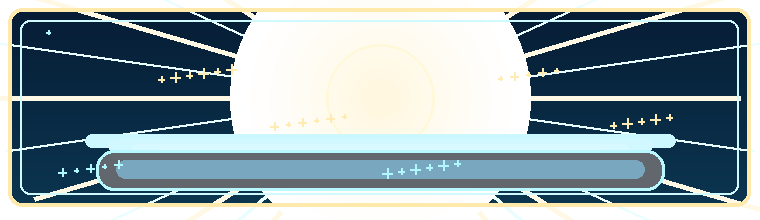
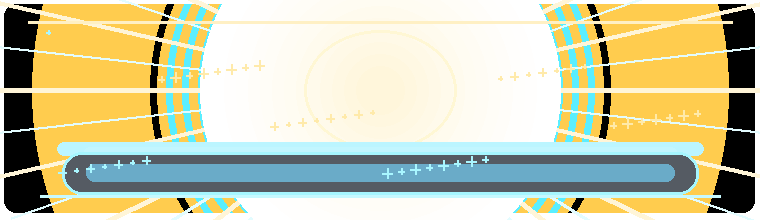
食経験値画面の中央演出を強める

diff --git a/docs/qa/evidence/cooking/2026-07-05_exp_gain_report.html b/docs/qa/evidence/cooking/2026-07-05_exp_gain_report.html
@@ -1,0 +1,131 @@
+<!doctype html>
+<html lang="ja">
+<head>
+  <meta charset="utf-8">
+  <title>Tsuri Cooking Reference QA</title>
+  <style>
+    body {
+      margin: 0;
+      background: #10151d;
+      color: #f4ead1;
+      font-family: -apple-system, BlinkMacSystemFont, "Hiragino Sans", sans-serif;
+    }
+    header {
+      position: sticky;
+      top: 0;
+      z-index: 1;
+      padding: 18px 24px;
+      background: #13243a;
+      border-bottom: 2px solid #c79545;
+    }
+    h1, h2, p {
+      margin: 0;
+    }
+    .status {
+      margin-top: 8px;
+      color: #ffd980;
+    }
+    main {
+      padding: 22px;
+    }
+    section {
+      margin-bottom: 34px;
+      padding: 18px;
+      background: #172130;
+      border: 1px solid #5f4424;
+    }
+    h2 {
+      margin-bottom: 8px;
+      color: #ffd980;
+    }
+    .focus {
+      margin-bottom: 14px;
+      color: #d8c8a8;
+    }
+    .pair {
+      display: grid;
+      grid-template-columns: 1fr 1fr;
+      gap: 16px;
+      align-items: start;
+    }
+    figure {
+      margin: 0;
+    }
+    img {
+      display: block;
+      width: 100%;
+      background: #0b0e14;
+      border: 1px solid #7a5a2a;
+    }
+    figcaption, .missing {
+      margin-top: 8px;
+      color: #d8c8a8;
+      font-size: 13px;
+      line-height: 1.45;
+    }
+    code {
+      color: #9fe8ff;
+    }
+    .missing {
+      min-height: 260px;
+      padding: 24px;
+      background: #261922;
+      border: 1px dashed #c76b6b;
+    }
+  </style>
+</head>
+<body>
+  <header>
+    <h1>Tsuri Cooking Reference QA</h1>
+    <p class="status">All captures found. Review each pair against the focus notes.</p>
+  </header>
+  <main>
+    
+            <section>
+              <h2>COOK_SELECT</h2>
+              <p class="focus">Focus: 3カラム構成、魚行、3x2料理カード、右詳細、下部ステータス帯</p>
+              <div class="pair">
+                <figure><img src="file:///Users/ryukouokumura/Desktop/tsuri_quest_umi_mvp/reference/cooking_flow/01_cook_select_concept.png" alt="Reference"><figcaption>Reference<br><code>/Users/ryukouokumura/Desktop/tsuri_quest_umi_mvp/reference/cooking_flow/01_cook_select_concept.png</code></figcaption></figure>
+                <figure><img src="file:///tmp/tsuri_cooking_select.png" alt="Current Capture"><figcaption>Current Capture<br><code>/tmp/tsuri_cooking_select.png</code></figcaption></figure>
+              </div>
+            </section>
+            
+            <section>
+              <h2>MEAL_RESULT</h2>
+              <p class="focus">Focus: 食事シーン、食べたバナー、料理カード、4報酬カード、下部ステータス帯</p>
+              <div class="pair">
+                <figure><img src="file:///Users/ryukouokumura/Desktop/tsuri_quest_umi_mvp/reference/cooking_flow/02_meal_result_concept.png" alt="Reference"><figcaption>Reference<br><code>/Users/ryukouokumura/Desktop/tsuri_quest_umi_mvp/reference/cooking_flow/02_meal_result_concept.png</code></figcaption></figure>
+                <figure><img src="file:///tmp/tsuri_cooking_result.png" alt="Current Capture"><figcaption>Current Capture<br><code>/tmp/tsuri_cooking_result.png</code></figcaption></figure>
+              </div>
+            </section>
+            
+            <section>
+              <h2>EXP_GAIN</h2>
+              <p class="focus">Focus: +EXP、EXPゲージ、放射バースト、左料理カード、右効果カード</p>
+              <div class="pair">
+                <figure><img src="file:///Users/ryukouokumura/Desktop/tsuri_quest_umi_mvp/reference/cooking_flow/03_exp_gain_concept.png" alt="Reference"><figcaption>Reference<br><code>/Users/ryukouokumura/Desktop/tsuri_quest_umi_mvp/reference/cooking_flow/03_exp_gain_concept.png</code></figcaption></figure>
+                <figure><img src="file:///tmp/tsuri_cooking_exp.png" alt="Current Capture"><figcaption>Current Capture<br><code>/tmp/tsuri_cooking_exp.png</code></figcaption></figure>
+              </div>
+            </section>
+            
+            <section>
+              <h2>LEVEL_UP_OVERLAY</h2>
+              <p class="focus">Focus: 中央LEVEL UP、Lv遷移、能力上昇、赤リボン、ぬし/釣り場解放</p>
+              <div class="pair">
+                <figure><img src="file:///Users/ryukouokumura/Desktop/tsuri_quest_umi_mvp/reference/cooking_flow/04_level_up_overlay_concept.png" alt="Reference"><figcaption>Reference<br><code>/Users/ryukouokumura/Desktop/tsuri_quest_umi_mvp/reference/cooking_flow/04_level_up_overlay_concept.png</code></figcaption></figure>
+                <figure><img src="file:///tmp/tsuri_cooking_levelup.png" alt="Current Capture"><figcaption>Current Capture<br><code>/tmp/tsuri_cooking_levelup.png</code></figcaption></figure>
+              </div>
+            </section>
+            
+            <section>
+              <h2>STATUS_SUMMARY</h2>
+              <p class="focus">Focus: 5カード、ヘッダーEXP、効果中料理、下部メッセージ、港へ戻る導線</p>
+              <div class="pair">
+                <figure><img src="file:///Users/ryukouokumura/Desktop/tsuri_quest_umi_mvp/reference/cooking_flow/05_status_summary_concept.png" alt="Reference"><figcaption>Reference<br><code>/Users/ryukouokumura/Desktop/tsuri_quest_umi_mvp/reference/cooking_flow/05_status_summary_concept.png</code></figcaption></figure>
+                <figure><img src="file:///tmp/tsuri_cooking_status.png" alt="Current Capture"><figcaption>Current Capture<br><code>/tmp/tsuri_cooking_status.png</code></figcaption></figure>
+              </div>
+            </section>
+            
+  </main>
+</body>
+</html>

diff --git a/tools/generate_cooking_showcase_assets.py b/tools/generate_cooking_showcase_assets.py
@@ -1575,58 +1575,58 @@ def exp_burst_frame() -> None:
 
     bg = Image.new("RGBA", (w, h), (0, 0, 0, 0))
     bd = ImageDraw.Draw(bg, "RGBA")
-    for y in range(h):
-        t = y / max(1, h - 1)
-        top = (7, 28, 52)
-        bot = (12, 55, 82)
-        col = tuple(int(top[i] * (1 - t) + bot[i] * t) for i in range(3))
-        bd.line((0, y, w, y), fill=(*col, 245))
+    center = (w // 2, h // 2 - 20)
+    for r in range(380, 24, -16):
+        a = int(96 * (1 - r / 380) ** 1.8)
+        bd.ellipse((center[0] - r, center[1] - r, center[0] + r, center[1] + r), fill=(255, 204, 78, a))
+    for r in range(230, 18, -16):
+        a = int(64 * (1 - r / 230) ** 1.45)
+        bd.ellipse((center[0] - r, center[1] - r, center[0] + r, center[1] + r), outline=(90, 238, 255, a), width=7)
     mask = Image.new("L", (w, h), 0)
     md = ImageDraw.Draw(mask)
-    md.rounded_rectangle((8, 8, w - 10, h - 14), radius=14, fill=255)
+    md.rounded_rectangle((4, 4, w - 6, h - 8), radius=12, fill=255)
     img.alpha_composite(bg)
     img.putalpha(mask)
     draw = ImageDraw.Draw(img, "RGBA")
 
-    center = (w // 2, h // 2 - 12)
-    for i in range(44):
-        angle = math.tau * i / 44
+    for i in range(56):
+        angle = math.tau * i / 56
         inner = 20 + (i % 3) * 5
-        outer = 360 + (i % 4) * 18
-        color = (255, 224, 129, 54) if i % 2 == 0 else (107, 241, 255, 36)
+        outer = 390 + (i % 5) * 18
+        color = (255, 224, 129, 78) if i % 2 == 0 else (107, 241, 255, 48)
         x0 = center[0] + math.cos(angle) * inner
         y0 = center[1] + math.sin(angle) * inner
         x1 = center[0] + math.cos(angle) * outer
         y1 = center[1] + math.sin(angle) * outer
         draw.line((x0, y0, x1, y1), fill=color, width=5 if i % 2 == 0 else 3)
 
-    for r in range(150, 12, -10):
-        a = int(70 * (1 - r / 150) ** 1.6)
+    for r in range(180, 18, -12):
+        a = int(82 * (1 - r / 180) ** 1.65)
         draw.ellipse((center[0] - r, center[1] - r, center[0] + r, center[1] + r), fill=(255, 222, 112, a))
-    draw.ellipse((center[0] - 54, center[1] - 54, center[0] + 54, center[1] + 54), outline=(255, 240, 172, 110), width=3)
+    draw.ellipse((center[0] - 76, center[1] - 60, center[0] + 76, center[1] + 60), outline=(255, 240, 172, 132), width=3)
 
     # Gauge pedestal and cyan flash trails.
     for i in range(6):
-        width = w - 170 - i * 46
-        y = 134 + i * 5
+        width = w - 114 - i * 52
+        y = 142 + i * 5
         draw.rounded_rectangle(
             ((w - width) // 2, y, (w + width) // 2, y + 13),
             radius=7,
-            fill=(68, 229, 255, max(18, 70 - i * 9)),
+            fill=(68, 229, 255, max(22, 92 - i * 10)),
         )
-    draw.rounded_rectangle((96, 150, w - 96, 190), radius=18, fill=(5, 14, 25, 160), outline=(107, 241, 255, 120), width=3)
-    draw.rounded_rectangle((116, 160, w - 116, 178), radius=9, fill=(30, 107, 148, 150))
+    draw.rounded_rectangle((62, 152, w - 62, 194), radius=20, fill=(3, 12, 24, 172), outline=(107, 241, 255, 152), width=3)
+    draw.rounded_rectangle((86, 164, w - 86, 181), radius=9, fill=(30, 128, 172, 168))
 
-    for i in range(34):
+    for i in range(46):
         x = 48 + (i * 113) % (w - 96)
         y = 32 + (i * 47) % (h - 78)
         r = 2 + i % 4
-        color = (255, 224, 129, 150) if i % 3 else (107, 241, 255, 135)
+        color = (255, 224, 129, 172) if i % 3 else (107, 241, 255, 148)
         draw.line((x - r, y, x + r, y), fill=color, width=2)
         draw.line((x, y - r, x, y + r), fill=color, width=2)
 
-    draw.rounded_rectangle((8, 8, w - 10, h - 14), radius=14, outline=(255, 224, 129, 170), width=4)
-    draw.rounded_rectangle((20, 20, w - 22, h - 26), radius=10, outline=(107, 241, 255, 82), width=2)
+    draw.line((28, 22, w - 28, 22), fill=(255, 224, 129, 118), width=3)
+    draw.line((40, h - 24, w - 40, h - 24), fill=(107, 241, 255, 96), width=3)
     save(img, "exp_burst_frame.png")
 
 

diff --git a/docs/qa/cooking_qa.md b/docs/qa/cooking_qa.md
@@ -1,6 +1,6 @@
 # 調理場 QA判断ログ
 
-最終更新: 2026-07-05 / 状態: 調理場cooking_screen R1完了 / COOK_SELECT仕上げ点検完了 / MEAL_RESULT reference-uplift完了 / 次はEXP_GAIN
+最終更新: 2026-07-05 / 状態: 調理場cooking_screen R1完了 / COOK_SELECT仕上げ点検完了 / MEAL_RESULT / EXP_GAIN reference-uplift完了 / 次はLEVEL_UP_OVERLAY
 参照画像: reference/cooking_flow/01_cook_select_concept.png, reference/cooking_flow/02_meal_result_concept.png, reference/cooking_flow/03_exp_gain_concept.png, reference/cooking_flow/04_level_up_overlay_concept.png, reference/cooking_flow/05_status_summary_concept.png
 QA更新コマンド: ./tools/cooking_visual_qa.sh
 
@@ -21,6 +21,7 @@ QA更新コマンド: ./tools/cooking_visual_qa.sh
 
 | パラメータ | 回数 | 直近の変更内容 | 状態 |
 |---|---|---|---|
+| EXP_GAIN 中央演出/ステップ行 | 4 | `exp_burst_frame.png` 候補を生成。透明外枠/見出し拡大は可読性が落ちたため不採用、最終的にステップ行はcontent契約上visibleのままalpha 0.18で抑制 | 完了 |
 | MEAL_RESULT 料理カード/外枠構成 | 2 | 料理カード素材候補の広い料理窓に合わせて配分を試し、1回目は料理名が狭くなったため、2回目で画像幅/文字サイズとMEAL_RESULT専用透明外枠を採用 | 完了 |
 | COOK_SELECT 料理カードタイトル帯 | 1 | 最新比較で枠ノッチとタイトル文字の干渉を確認し、runtimeタイトルをアウトラインなし太字・帯内下寄せへ調整 | 完了 |
 | COOK_SELECT 料理カード星ランク表示 | 1 | Label幅中央寄せを試したが実スクショで星文字が弱く、runtimeポリゴン描画 `RecipeStarRank` へ切替 | 完了 |
@@ -31,7 +32,7 @@ QA更新コマンド: ./tools/cooking_visual_qa.sh
 
 ## 5. 現在の残ギャップ
 
-- P2: EXP_GAIN / LEVEL_UP_OVERLAY / STATUS_SUMMARY は参照uplift未実施。ユーザー指定の優先順どおり1状態1スライスで進める。
+- P2: LEVEL_UP_OVERLAY / STATUS_SUMMARY は参照uplift未実施。ユーザー指定の優先順どおり1状態1スライスで進める。
 - R1温存: レアリティ表示の `RarityStyles` 横展開は未実施。調理場 `src/ui/cooking_screen.gd` のR1完了により、残件は台帳に残したまま一旦停止。
 - R1: `src/ui/cooking_screen.gd` は `Color(` 直書きゼロ。COOK_SELECT左魚リスト周辺は `Palette.COOKING_FISH_*`、見出しリボン周辺は `Palette.COOKING_SECTION_RIBBON_*`、料理カード/中央料理グリッド外枠周辺は `Palette.COOKING_RECIPE_*`、下部バー周辺は `Palette.COOKING_PREP_*`、右詳細パネルactive runtime色は `Palette.COOKING_DETAIL_*`、調理ボタン周辺は `Palette.COOKING_ACTION_*`、料理図鑑ボタン周辺は `Palette.COOKING_RECIPE_BOOK_BUTTON_*`、小アイコン/アクションキュー周辺は `Palette.COOKING_SMALL_ICON_*` / `Palette.COOKING_ACTION_CUE_*`、結果サマリーカード周辺は `Palette.COOKING_SUMMARY_CARD_*` / `Palette.COOKING_RESULT_TITLE_OUTLINE`、背景fallback/glazeは `Palette.COOKING_BG_*` へ移行済み。未使用detail helper由来のhexは削除済み。
 - 監査: `tools/cooking_layout_audit.tscn` / `tools/cooking_content_audit.tscn` / `./tools/cooking_visual_qa.sh` はgreen。visual QAは状態間キャプチャ重複のfail guard追加済み。
@@ -41,6 +42,18 @@ QA更新コマンド: ./tools/cooking_visual_qa.sh
 なし。
 
 ## 7. 判断ログ（直近パスのみ）
+
[phone redacted]: `EXP_GAIN reference-uplift` 完了。`reference/cooking_flow/03_exp_gain_concept.png` へ向けて、中央EXP演出を主役に寄せた。
+
+- 選定理由: MEAL_RESULT完了後、ユーザー指定の優先順で次がEXP_GAINだったため。before比較では上部ステップ行と旧EXPフレームが強く、参照の巨大 `+EXP` / 中央ゲージの報酬ビートより進行UI感が勝っていた。
+- 変えたもの: `tools/generate_cooking_showcase_assets.py` の `exp_burst_frame()` から `assets/showcase/cooking/exp_burst_frame.png` 候補を生成し、中央フレームの光量・ゲージ台座・粒子を強化。EXP_GAIN時のステップ行はcontent audit契約上visibleのまま、alpha 0.18で背景側へ退かせた。
+- 変えていないもの: §1 freeze値、調理/EXP/レベルアップ進行ロジック、COOK_SELECT、MEAL_RESULT、LEVEL_UP_OVERLAY、STATUS_SUMMARY、R1残件、日本語PNG焼き込み。
+- 素材候補: `exp_burst_frame.png` 候補を採用。透明外枠化と見出し拡大は `+EXP` / 見出しの可読性が落ちたため不採用。最終候補は、参照ほどの巨大タイトルには届かないが、beforeより中央ゲージの発光と専用EXP状態の読みが強いと判断。
+- 微調整カウンタ: `EXP_GAIN 中央演出/ステップ行` 4回。3回目で表示契約を満たす改善に戻し、4回目の見出し拡大は不採用として戻した。追加の数px調整は行わず、残る巨大タイトル差分は次回以降の構造/素材フェーズへ送る。
+- 証拠画像: `docs/qa/evidence/cooking/2026-07-05_exp_gain_before_after_ref.png`, `docs/qa/evidence/cooking/2026-07-05_exp_gain_focus.png`, `docs/qa/evidence/cooking/2026-07-05_exp_gain_exp.png`, `docs/qa/evidence/cooking/2026-07-05_exp_gain_report.html`
+- 判定: afterでは上部ステップ行が主導線から退き、中央EXPカードの光とゲージ台座が強くなった。参照の巨大 `+60 EXP` ほどの迫力は残課題だが、EXP獲得専用状態へ前進したと第三者に判別できる。cmp一致は判定に使っていない。
+- 検証: `./tools/cooking_visual_qa.sh`、`cooking_layout_audit.tscn`、`cooking_content_audit.tscn`、`cooking_flow_smoke`、`./tools/save_system_verify.sh`、`./tools/validate_project.sh` green。`save_system_verify.sh` のJSON警告と `validate_project.sh` のObjectDB/resource警告はベースライン既知。
+- 固定条件: EXP_GAINのステップ行はcontent audit契約上visibleを維持するが、主役は中央EXP演出とする。次スライスはLEVEL_UP_OVERLAYへ進める。
 
 2026-07-05: `MEAL_RESULT reference-uplift` 完了。`reference/cooking_flow/02_meal_result_concept.png` へ向けて、食事結果がフォームではなくpayoff状態に見えるように調整した。
 

diff --git a/docs/26_refactor_orchestration_plan.md b/docs/26_refactor_orchestration_plan.md
@@ -1,6 +1,6 @@
 # リファクタ作戦台帳
 
-最終更新: 2026-07-05 / 状態: R0/R2/R3/R4/R6/R7/R8 完了。R9（cooking_reward_panel 分割）は第1〜3段完了。R5/R1 は釣り場マップ完了、魚図鑑 Palette 移行 + P2素材評価完了、調理場 `text_overrun_behavior` 既知ギャップ解消済み、調理場COOK_SELECTの `PlayerStatusBar` 展開 + 情報重複解消済み、調理場 layout監査失敗は実P1修正として解消済み、COOK_SELECT 4スライス（料理カード/下部バー/右詳細パネル/背景）reference-uplift完了、COOK_SELECT仕上げ精度点検完了、MEAL_RESULT reference-uplift完了。`src/ui/screen_base.gd` の残hexは `Palette.SCREEN_BG_DEFAULT` へ移行済み。共有 `GaugeBar` の描画色は `Palette.GAUGE_*` へ移行済み。共有テーマ `src/ui/ui_theme.gd` は `Palette.THEME_*` へ移行済みで直書き色ゼロ。共有 `src/ui/ui_textures.gd` のprocedural魚アイコン色は `Palette.UI_FISH_ICON_*` へ移行済みで直書き色ゼロ。釣具店 `src/ui/shop_screen.gd` は `Palette.TACKLE_*` へ移行済みで直書き色ゼロ。魚市場 `src/ui/market_screen.gd` は一覧レアリティ色を `RarityStyles.list_text_color` へ、透明シャドウ色を `Color.TRANSPARENT` へ移行済みで直書き色ゼロ。調理場 `src/ui/cooking_screen.gd` は `Color(` 直書きゼロ。UI側の直接 `Palette.RARITY_*` 参照は `src/ui/rarity_styles.gd` へ集約済み。R1残件は台帳に温存し、次はEXP_GAIN reference-uplift
+最終更新: 2026-07-05 / 状態: R0/R2/R3/R4/R6/R7/R8 完了。R9（cooking_reward_panel 分割）は第1〜3段完了。R5/R1 は釣り場マップ完了、魚図鑑 Palette 移行 + P2素材評価完了、調理場 `text_overrun_behavior` 既知ギャップ解消済み、調理場COOK_SELECTの `PlayerStatusBar` 展開 + 情報重複解消済み、調理場 layout監査失敗は実P1修正として解消済み、COOK_SELECT 4スライス（料理カード/下部バー/右詳細パネル/背景）reference-uplift完了、COOK_SELECT仕上げ精度点検完了、MEAL_RESULT / EXP_GAIN reference-uplift完了。`src/ui/screen_base.gd` の残hexは `Palette.SCREEN_BG_DEFAULT` へ移行済み。共有 `GaugeBar` の描画色は `Palette.GAUGE_*` へ移行済み。共有テーマ `src/ui/ui_theme.gd` は `Palette.THEME_*` へ移行済みで直書き色ゼロ。共有 `src/ui/ui_textures.gd` のprocedural魚アイコン色は `Palette.UI_FISH_ICON_*` へ移行済みで直書き色ゼロ。釣具店 `src/ui/shop_screen.gd` は `Palette.TACKLE_*` へ移行済みで直書き色ゼロ。魚市場 `src/ui/market_screen.gd` は一覧レアリティ色を `RarityStyles.list_text_color` へ、透明シャドウ色を `Color.TRANSPARENT` へ移行済みで直書き色ゼロ。調理場 `src/ui/cooking_screen.gd` は `Color(` 直書きゼロ。UI側の直接 `Palette.RARITY_*` 参照は `src/ui/rarity_styles.gd` へ集約済み。R1残件は台帳に温存し、次はLEVEL_UP_OVERLAY reference-uplift
 
 Fable オーケストレーターが本ファイルを正本としてスライス順・状態・ベースラインを管理する。
 Composer ワーカーは個別 brief のみ受け取り、本ファイルの更新はオーケストレーターが行う。
@@ -32,7 +32,7 @@ MVPを壊さず、今後のUI改善を画面単位で安全に進められる状
 
 1. **完了済み差分の保護**: R9第1〜3段、釣り場マップR5/R1、魚図鑑R5/R1、調理場COOK_SELECT改善は完了済み。以後は純リファクタ、画面uplift、Palette移行を混ぜず、1スライス1関心で扱う。
 2. **検証の信頼性維持**: `tools/cooking_layout_audit.tscn` の既存失敗は実スクショ上のP1文字欠けとして修正済み。以後はvisual QAの状態重複guard、layout/content audit、実スクショ目視をセットで扱う。
-3. **調理フロー残り状態のR5優先**: 調理場R1は `src/ui/cooking_screen.gd` の `Color(` 直書きゼロまで完了したため一旦停止。MEAL_RESULTは完了。体感品質に寄与する EXP_GAIN → LEVEL_UP_OVERLAY → STATUS_SUMMARY のreference-upliftを、1状態1スライスで進める。
+3. **調理フロー残り状態のR5優先**: 調理場R1は `src/ui/cooking_screen.gd` の `Color(` 直書きゼロまで完了したため一旦停止。MEAL_RESULT / EXP_GAINは完了。体感品質に寄与する LEVEL_UP_OVERLAY → STATUS_SUMMARY のreference-upliftを、1状態1スライスで進める。
 4. **残り画面のR5/R1**: P1があれば最優先。P1がなければ、P2が明確で smoke / visual QA / reference / QAログが揃っている画面から進める。R1残件は画面単位で再開するまで温存し、機械的一括置換はしない。
 5. **R1残件の棚卸し**: 画面単位の進行で残ったPalette未移行箇所を監査リストとして管理する。機械的一括ゼロ化はしない。
 6. **任意の構造課題**: BGM二重実装など、MVP健全化の出口に必須でないものは、上記の完了後に別スライス化する。
@@ -100,7 +100,7 @@ done
 | R2 | showcase 素材参照違反の修正 | R0 | Composer×画面 | `audit_showcase_asset_refs.py` green | **done（監査の結果、現状違反ゼロ。作業不要）** |
 | R3 | autoload / core の pure ロジック境界抽出 | R0, Fable 設計 | Composer | 振る舞い不変、該当 smoke green | **done (2026-07-05)** `game_data.gd`（1828行）を `game_catalog_data.gd`（constテーブル15個・約1430行）と `game_data.gd`（ルール定数+エイリアス+ロジック・約430行）に分離。公開APIはconstエイリアスで不変。7テーブルの JSON md5 前後一致で証明 |
 | R4 | UI 共通基盤（ScreenBase 等）の整理 | R3, Fable 設計 | Composer | Fable 承認済み設計どおり、全 smoke green | **done (2026-07-05)** `ScreenBase.make_screen_label` を新設し、`_harbor_label` / `_shipyard_label` / `_book_label` / `_status_label` / `_market_label` を1行委譲に統合（呼び出し約120箇所は無変更）。画面固有の shadow/outline 色は引数渡しで screen_base への新規hex持ち込みなし。`GameFontsScript` preload を ScreenBase へ昇格し、継承7画面の重複 const を削除。全10 smoke + validate green |
-| R5 | 画面別 UI uplift | R4 | Composer×画面 | 各 `skills/ui-screen-uplift/` + visual QA | 釣り場マップ done (2026-07-05): 詳細`エサ`/`仕掛け`行の省略P1再発を修正し、通常/釣行継続visual QA証拠を `docs/qa/evidence/fishing_spot_map/` に保存。魚図鑑 done (2026-07-05): Palette gate後のvisual QAでP1再発なし、既存portrait候補は現行に明確勝ちせず素材採用見送り（専用素材P2は新規候補待ち）。調理場 safe overrun foundation done (2026-07-05): `ScreenBase.make_label` の既定 `text_overrun_behavior` を `OVERRUN_TRIM_ELLIPSIS` に統一し、`docs/19` §8.5-7 を解消。編集前ベースライン `/tmp/tsuri_refactor_baseline/cooking_overrun_20260705_113951/` と編集後6キャプチャはピクセル完全一致、`cooking_visual_qa.sh` / 全UI smoke / `save_system_verify.sh` / `validate_project.sh` green。調理場 status de-dup done (2026-07-05): COOK_SELECTヘッダーを `PlayerStatusBar` へ置換し、下部「現在の準備」バーから重複Lv/EXP・所持金カードを撤去。証拠 `docs/qa/evidence/cooking/2026-07-05_status_dedupe_before_after_select.png`、`cooking_visual_qa.sh` / `cooking_flow_smoke` / 全UI smoke / `save_system_verify.sh` / `validate_project.sh` / `cooking_content_audit.tscn` green。調理場 layout audit repair done (2026-07-05): EXP_GAIN / LEVEL_UP_OVERLAY / STATUS_SUMMARY の実P1文字欠けを修正し、visual QAに重複キャプチャguardを追加。証拠 `docs/qa/evidence/cooking/2026-07-05_layout_audit_repair_levelup.png`、`cooking_visual_qa.sh` / `cooking_layout_audit.tscn` / `cooking_content_audit.tscn` green。調理場 COOK_SELECT recipe card reference-uplift done (2026-07-05): カード枠素材4枚を生成し、runtime星描画 `RecipeStarRank` とカード縦配分で上部タイトル帯 / 中央皿画像 / 下部星ランク+魚アイコンの3段構成へ寄せた。証拠 `docs/qa/evidence/cooking/2026-07-05_recipe_card_before_after_ref.png`、`cooking_visual_qa.sh` / `cooking_content_audit.tscn` / `cooking_layout_audit.tscn` / `cooking_flow_smoke` / `save_system_verify.sh` / `validate_project.sh` green。調理場 COOK_SELECT prep bar reference-uplift done (2026-07-05): 下部バー枠素材2枚を生成し、プレイヤーLv / 効果中の料理 / クーラーボックス / 所持金の4区画へ再構成。証拠 `docs/qa/evidence/cooking/2026-07-05_prep_bar_before_after_ref.png`、`cooking_visual_qa.sh` / `cooking_content_audit.tscn` / `cooking_layout_audit.tscn` / `cooking_flow_smoke` / `save_system_verify.sh` / `validate_project.sh` green。調理場 COOK_SELECT detail panel reference-uplift done (2026-07-05): 詳細行フレーム素材1枚を生成し、必要素材/獲得EXP/次の釣行効果行をアイコン帯+右バッジ構成へ再構成。証拠 `docs/qa/evidence/cooking/2026-07-05_detail_panel_before_after_ref.png`、`cooking_visual_qa.sh` / `cooking_content_audit.tscn` / `cooking_layout_audit.tscn` / `cooking_flow_smoke` / `save_system_verify.sh` / `validate_project.sh` green。調理場 COOK_SELECT background reveal reference-uplift done (2026-07-05): COOK_SELECT本体の左右余白/パネル間隔/glazeを調整し、厨房背景の見え方を改善。証拠 `docs/qa/evidence/cooking/2026-07-05_background_before_after_ref.png`、`cooking_visual_qa.sh` / `cooking_content_audit.tscn` / `cooking_layout_audit.tscn` / `cooking_flow_smoke` / `save_system_verify.sh` / `validate_project.sh` green。調理場 COOK_SELECT finish precision done (2026-07-05): 最新比較で料理カードタイトル帯の枠ノッチ干渉を確認し、runtimeタイトルをアウトラインなし太字+帯内下寄せへ調整。右詳細値プレートと下部4区画は実スクショでP1なし。証拠 `docs/qa/evidence/cooking/2026-07-05_select_precision_before_after_ref.png`、`cooking_visual_qa.sh` / `cooking_layout_audit.tscn` / `cooking_content_audit.tscn` / `cooking_flow_smoke` / `save_system_verify.sh` / `validate_project.sh` green。調理場 MEAL_RESULT reference-uplift done (2026-07-05): `meal_dish_card_frame.png` 候補を生成し、料理カードの広い料理窓+MEAL_RESULT専用の透明外枠でフォーム感を弱め、食事シーン背景上のpayoff状態へ寄せた。証拠 `docs/qa/evidence/cooking/2026-07-05_meal_result_before_after_ref.png`、`cooking_visual_qa.sh` / `cooking_layout_audit.tscn` / `cooking_content_audit.tscn` / `cooking_flow_smoke` / `save_system_verify.sh` / `validate_project.sh` green。次はEXP_GAIN |
+| R5 | 画面別 UI uplift | R4 | Composer×画面 | 各 `skills/ui-screen-uplift/` + visual QA | 釣り場マップ done (2026-07-05): 詳細`エサ`/`仕掛け`行の省略P1再発を修正し、通常/釣行継続visual QA証拠を `docs/qa/evidence/fishing_spot_map/` に保存。魚図鑑 done (2026-07-05): Palette gate後のvisual QAでP1再発なし、既存portrait候補は現行に明確勝ちせず素材採用見送り（専用素材P2は新規候補待ち）。調理場 safe overrun foundation done (2026-07-05): `ScreenBase.make_label` の既定 `text_overrun_behavior` を `OVERRUN_TRIM_ELLIPSIS` に統一し、`docs/19` §8.5-7 を解消。編集前ベースライン `/tmp/tsuri_refactor_baseline/cooking_overrun_20260705_113951/` と編集後6キャプチャはピクセル完全一致、`cooking_visual_qa.sh` / 全UI smoke / `save_system_verify.sh` / `validate_project.sh` green。調理場 status de-dup done (2026-07-05): COOK_SELECTヘッダーを `PlayerStatusBar` へ置換し、下部「現在の準備」バーから重複Lv/EXP・所持金カードを撤去。証拠 `docs/qa/evidence/cooking/2026-07-05_status_dedupe_before_after_select.png`、`cooking_visual_qa.sh` / `cooking_flow_smoke` / 全UI smoke / `save_system_verify.sh` / `validate_project.sh` / `cooking_content_audit.tscn` green。調理場 layout audit repair done (2026-07-05): EXP_GAIN / LEVEL_UP_OVERLAY / STATUS_SUMMARY の実P1文字欠けを修正し、visual QAに重複キャプチャguardを追加。証拠 `docs/qa/evidence/cooking/2026-07-05_layout_audit_repair_levelup.png`、`cooking_visual_qa.sh` / `cooking_layout_audit.tscn` / `cooking_content_audit.tscn` green。調理場 COOK_SELECT recipe card reference-uplift done (2026-07-05): カード枠素材4枚を生成し、runtime星描画 `RecipeStarRank` とカード縦配分で上部タイトル帯 / 中央皿画像 / 下部星ランク+魚アイコンの3段構成へ寄せた。証拠 `docs/qa/evidence/cooking/2026-07-05_recipe_card_before_after_ref.png`、`cooking_visual_qa.sh` / `cooking_content_audit.tscn` / `cooking_layout_audit.tscn` / `cooking_flow_smoke` / `save_system_verify.sh` / `validate_project.sh` green。調理場 COOK_SELECT prep bar reference-uplift done (2026-07-05): 下部バー枠素材2枚を生成し、プレイヤーLv / 効果中の料理 / クーラーボックス / 所持金の4区画へ再構成。証拠 `docs/qa/evidence/cooking/2026-07-05_prep_bar_before_after_ref.png`、`cooking_visual_qa.sh` / `cooking_content_audit.tscn` / `cooking_layout_audit.tscn` / `cooking_flow_smoke` / `save_system_verify.sh` / `validate_project.sh` green。調理場 COOK_SELECT detail panel reference-uplift done (2026-07-05): 詳細行フレーム素材1枚を生成し、必要素材/獲得EXP/次の釣行効果行をアイコン帯+右バッジ構成へ再構成。証拠 `docs/qa/evidence/cooking/2026-07-05_detail_panel_before_after_ref.png`、`cooking_visual_qa.sh` / `cooking_content_audit.tscn` / `cooking_layout_audit.tscn` / `cooking_flow_smoke` / `save_system_verify.sh` / `validate_project.sh` green。調理場 COOK_SELECT background reveal reference-uplift done (2026-07-05): COOK_SELECT本体の左右余白/パネル間隔/glazeを調整し、厨房背景の見え方を改善。証拠 `docs/qa/evidence/cooking/2026-07-05_background_before_after_ref.png`、`cooking_visual_qa.sh` / `cooking_content_audit.tscn` / `cooking_layout_audit.tscn` / `cooking_flow_smoke` / `save_system_verify.sh` / `validate_project.sh` green。調理場 COOK_SELECT finish precision done (2026-07-05): 最新比較で料理カードタイトル帯の枠ノッチ干渉を確認し、runtimeタイトルをアウトラインなし太字+帯内下寄せへ調整。右詳細値プレートと下部4区画は実スクショでP1なし。証拠 `docs/qa/evidence/cooking/2026-07-05_select_precision_before_after_ref.png`、`cooking_visual_qa.sh` / `cooking_layout_audit.tscn` / `cooking_content_audit.tscn` / `cooking_flow_smoke` / `save_system_verify.sh` / `validate_project.sh` green。調理場 MEAL_RESULT reference-uplift done (2026-07-05): `meal_dish_card_frame.png` 候補を生成し、料理カードの広い料理窓+MEAL_RESULT専用の透明外枠でフォーム感を弱め、食事シーン背景上のpayoff状態へ寄せた。証拠 `docs/qa/evidence/cooking/2026-07-05_meal_result_before_after_ref.png`、`cooking_visual_qa.sh` / `cooking_layout_audit.tscn` / `cooking_content_audit.tscn` / `cooking_flow_smoke` / `save_system_verify.sh` / `validate_project.sh` green。調理場 EXP_GAIN reference-uplift done (2026-07-05): `exp_burst_frame.png` 候補を生成し、EXP_GAIN上部ステップ行を抑制して中央EXP演出を主役化。証拠 `docs/qa/evidence/cooking/2026-07-05_exp_gain_before_after_ref.png`、`cooking_visual_qa.sh` / `cooking_layout_audit.tscn` / `cooking_content_audit.tscn` / `cooking_flow_smoke` / `save_system_verify.sh` / `validate_project.sh` green。次はLEVEL_UP_OVERLAY |
 | R6 | 調理フロー4ファイルの重複抽出（定数・StyleBoxヘルパ・皿テクスチャ解決→CookingAssets） | R0 | Composer | behavior-preserving、cooking_flow smoke + visual QA 画像一致、validate green | **done (2026-07-05)** 新規 `src/ui/components/cooking_assets.gd`。STATUS スクショはピクセル一致。RESULT/EXP/LEVELUP は元コードからキャプチャ非決定（アニメーション）のため cmp は参考値、visual QA passed |
 | R7 | 画面横断の重複ヘルパ統合と不要コード削除（_format_money 8重複、_load_texture_if_exists、ScreenBase未使用API、extends表記統一） | R0 | Composer | behavior-preserving、全 smoke + validate green | **done (2026-07-05)** `ScreenBase.format_money` / `_anchored_control` / `_place_control` へ統合。見送り: `_last_sfx_path`（smoke が参照）、`shipyard._format_money`（`maxi` で挙動差）、独自ロジック入り `_load_texture_if_exists` 9ファイル |
 | R9 | cooking_reward_panel（3,396行）の behavior-preserving 分割 | R8（決定的QAを退行判定に使用） | Composer | 各段で cooking visual QA 連続キャプチャが分割前と cmp 完全一致、cooking_flow smoke + validate green | **第1段 done (2026-07-05)** 内部Visualクラス17個（純描画・panel非依存）を新規 `src/ui/components/cooking_reward_visuals.gd`（1,297行）へ純移動し、panel 側は const エイリアスで参照不変（2,119行に減）。移動塊は空行差以外完全一致を diff で確認。素材監査 allowlist に抽出先を登録。6キャプチャがベースライン cmp 全一致。**第2段 done (2026-07-05)** ステータスストリップ節を `src/ui/components/cooking_reward_status_strip.gd`（296行、HBoxContainer component）へ抽出し panel は 1,796行に減。共有ヘルパ5つ+素材パス4定数を `CookingAssets` static へ昇格、`ScreenBase.make_label`/`make_body_label`/`make_shadow_label` を static 化（component からの利用を解禁、呼び出し側無変更）。panel の `_preview_state` 依存は `set_secondary(bool)` 注入に置換。6キャプチャがベースライン cmp 全一致。**第3段 done (2026-07-05)** 報酬カード節を新規 `src/ui/components/cooking_reward_cards.gd`（492行、GridContainer component）へ抽出し、panel は 1,338行に減。panel 側は `set_preview_state` / `show_meal_result` / `show_exp_gain` / `set_reward_cards_height` / `set_growth_text` の明示注入へ置換。編集前ベースライン `/tmp/tsuri_refactor_baseline/r9_reward_cards_20260705_112625/` と分割後6キャプチャが cmp 全一致。`cooking_flow_smoke` / `save_system_verify.sh` / `validate_project.sh` green |
@@ -151,6 +151,7 @@ done
 - 2026-07-05: R1色移行は調理場 `src/ui/cooking_screen.gd` の `Color(` 直書きゼロ到達をもって一旦停止。次のR5対象はCOOK_SELECT仕上げ精度点検。最新 `reference/cooking_flow/01_cook_select_concept.png` 横並びで、料理カードタイトル帯の枠ノッチ干渉、右詳細3行の値プレート、下部4区画の見切れを確認してから残り4状態へ進むため。
 - 2026-07-05: 次のR5対象はMEAL_RESULT。COOK_SELECT仕上げ点検後、ユーザー指定の優先順どおり `reference/cooking_flow/02_meal_result_concept.png` に対して1状態1スライスで参照upliftへ進めるため。
 - 2026-07-05: 次のR5対象はEXP_GAIN。MEAL_RESULTのbefore/after/reference比較で食事payoff状態への前進を確認したため、ユーザー指定の優先順どおり `reference/cooking_flow/03_exp_gain_concept.png` に進む。
+- 2026-07-05: 次のR5対象はLEVEL_UP_OVERLAY。EXP_GAINのbefore/after/reference比較で、上部ステップ行の抑制と中央EXP演出の素材更新により専用EXP状態への前進を確認したため、ユーザー指定の優先順どおり `reference/cooking_flow/04_level_up_overlay_concept.png` に進む。
 
 ### 監査で確認したが今回見送った項目（2026-07-05）
 